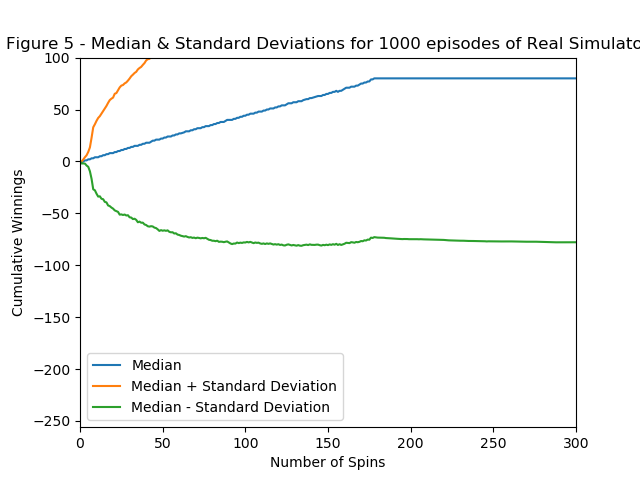
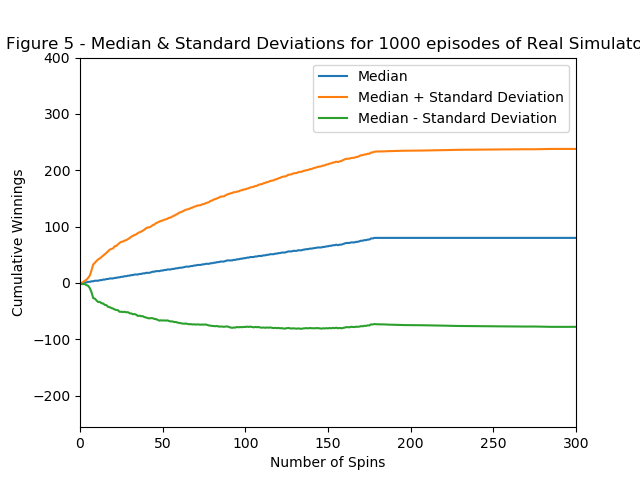
Commenting Print statements in Martingale Cleaned Version of Optimize Something code

diff --git a/optimize_something/optimization.py b/optimize_something/optimization.py
@@ -21,9 +21,9 @@ GT honor code violation.
   		  	   		  		 			  		 			     			  	 
 -----do not edit anything above this line---  		  	   		  		 			  		 			     			  	 
   		  	   		  		 			  		 			     			  	 
-Student Name: Tucker Balch (replace with your name)  		  	   		  		 			  		 			     			  	 
-GT User ID: tb34 (replace with your User ID)  		  	   		  		 			  		 			     			  	 
-GT ID: 900897987 (replace with your GT ID)  		  	   		  		 			  		 			     			  	 
+Student Name: Vaishnavi Sanjeev  		  	   		  		 			  		 			     			  	 
+GT User ID: vsanjeev6  		  	   		  		 			  		 			     			  	 
+GT ID: 903797718  		  	   		  		 			  		 			     			  	 
 """  		  	   		  		 			  		 			     			  	 
   		  	   		  		 			  		 			     			  	 
   		  	   		  		 			  		 			     			  	 
@@ -33,15 +33,15 @@ import numpy as np
   		  	   		  		 			  		 			     			  	 
 import matplotlib.pyplot as plt  		  	   		  		 			  		 			     			  	 
 import pandas as pd  		  	   		  		 			  		 			     			  	 
-from util import get_data, plot_data  		  	   		  		 			  		 			     			  	 
-  		  	   		  		 			  		 			     			  	 
+from util import get_data, plot_data
+from scipy.optimize import minimize
   		  	   		  		 			  		 			     			  	 
 # This is the function that will be tested by the autograder  		  	   		  		 			  		 			     			  	 
 # The student must update this code to properly implement the functionality  		  	   		  		 			  		 			     			  	 
 def optimize_portfolio(  		  	   		  		 			  		 			     			  	 
-    sd=dt.datetime(2008, 1, 1),  		  	   		  		 			  		 			     			  	 
-    ed=dt.datetime(2009, 1, 1),  		  	   		  		 			  		 			     			  	 
-    syms=["GOOG", "AAPL", "GLD", "XOM"],  		  	   		  		 			  		 			     			  	 
+    sd=dt.datetime(2008, 1, 1),
+    ed=dt.datetime(2009, 1, 1),
+    syms=["GOOG", "AAPL", "GLD", "XOM"],
     gen_plot=False,  		  	   		  		 			  		 			     			  	 
 ):  		  	   		  		 			  		 			     			  	 
     """  		  	   		  		 			  		 			     			  	 
@@ -68,34 +68,47 @@ def optimize_portfolio(
   		  	   		  		 			  		 			     			  	 
     # Read in adjusted closing prices for given symbols, date range  		  	   		  		 			  		 			     			  	 
     dates = pd.date_range(sd, ed)  		  	   		  		 			  		 			     			  	 
-    prices_all = get_data(syms, dates)  # automatically adds SPY  		  	   		  		 			  		 			     			  	 
-    prices = prices_all[syms]  # only portfolio symbols  		  	   		  		 			  		 			     			  	 
-    prices_SPY = prices_all["SPY"]  # only SPY, for comparison later  		  	   		  		 			  		 			     			  	 
-  		  	   		  		 			  		 			     			  	 
-    # find the allocations for the optimal portfolio  		  	   		  		 			  		 			     			  	 
-    # note that the values here ARE NOT meant to be correct for a test case  		  	   		  		 			  		 			     			  	 
-    allocs = np.asarray(  		  	   		  		 			  		 			     			  	 
-        [0.2, 0.2, 0.3, 0.3]  		  	   		  		 			  		 			     			  	 
-    )  # add code here to find the allocations  		  	   		  		 			  		 			     			  	 
-    cr, adr, sddr, sr = [  		  	   		  		 			  		 			     			  	 
-        0.25,  		  	   		  		 			  		 			     			  	 
-        0.001,  		  	   		  		 			  		 			     			  	 
-        0.0005,  		  	   		  		 			  		 			     			  	 
-        2.1,  		  	   		  		 			  		 			     			  	 
-    ]  # add code here to compute stats  		  	   		  		 			  		 			     			  	 
-  		  	   		  		 			  		 			     			  	 
+    prices_all = get_data(syms, dates)  # automatically adds SPY
+
+    # Handling possible incomplete data by filling forward first and then backward
+    prices_all.fillna(method="ffill",inplace=True)
+    prices_all.fillna(method="bfill", inplace=True)
+
+    prices = prices_all[syms]  # only portfolio symbols
+    prices_SPY = prices_all["SPY"]  # only SPY, for comparison later
+
+    no_of_assets = len(syms)
+    init_guess_alloc_array = np.full(no_of_assets,(1.0/no_of_assets))
+    #print(no_of_assets,init_guess_alloc_array)
+
+    bnds = tuple((0, 1) for _ in range(no_of_assets))
+    cons = ({'type': 'eq', 'fun': lambda inputs: sum(inputs)-1})
+    #Minimize function optimizes just a single scalar. So ensure that the function passed as an arg returns just one value
+    min_result = minimize(calc_SR,init_guess_alloc_array, args=(prices), method='SLSQP', constraints= cons, bounds = bnds)
+    #print("X={}. Y={}".format(min_result.x, min_result.fun))
+
+    optimal_allocation = min_result.x
+    daily_port_val, cr, adr, sddr = portfolio_calculations(optimal_allocation, prices)
+    #Don't need to reverse sign of SR except when calling the minimize() function
+    sr = -calc_SR(optimal_allocation, prices)
+    # print(bnds, cons, optimal_allocation)
+    #print(optimal_allocation, sum(optimal_allocation))
+
     # Get daily portfolio value  		  	   		  		 			  		 			     			  	 
-    port_val = prices_SPY  # add code here to compute daily portfolio values  		  	   		  		 			  		 			     			  	 
-  		  	   		  		 			  		 			     			  	 
+    port_val = daily_port_val  # add code here to compute daily portfolio values
+
     # Compare daily portfolio value with SPY using a normalized plot  		  	   		  		 			  		 			     			  	 
     if gen_plot:  		  	   		  		 			  		 			     			  	 
         # add code to plot here  		  	   		  		 			  		 			     			  	 
-        df_temp = pd.concat(  		  	   		  		 			  		 			     			  	 
-            [port_val, prices_SPY], keys=["Portfolio", "SPY"], axis=1  		  	   		  		 			  		 			     			  	 
-        )  		  	   		  		 			  		 			     			  	 
+        df_temp = pd.concat([port_val, (prices_SPY/prices_SPY[0])], keys=["Portfolio with [IBM, X, GLD, JPM]", "SPY"], axis=1)
+        graph = df_temp.plot(title = "Comparing Optimal Normalized Portfolio Value and SPY", grid = True)
+        graph.set_xlabel("Date from 2008-06-01 to 2009-06-01")
+        graph.set_ylabel("Normalized Price")
+        plt.savefig('./images/Figure1.png')
+        plt.clf()
         pass  		  	   		  		 			  		 			     			  	 
   		  	   		  		 			  		 			     			  	 
-    return allocs, cr, adr, sddr, sr  		  	   		  		 			  		 			     			  	 
+    return optimal_allocation, cr, adr, sddr, sr
   		  	   		  		 			  		 			     			  	 
   		  	   		  		 			  		 			     			  	 
 def test_code():  		  	   		  		 			  		 			     			  	 
@@ -103,25 +116,52 @@ def test_code():
     This function WILL NOT be called by the auto grader.  		  	   		  		 			  		 			     			  	 
     """  		  	   		  		 			  		 			     			  	 
   		  	   		  		 			  		 			     			  	 
-    start_date = dt.datetime(2009, 1, 1)  		  	   		  		 			  		 			     			  	 
-    end_date = dt.datetime(2010, 1, 1)  		  	   		  		 			  		 			     			  	 
-    symbols = ["GOOG", "AAPL", "GLD", "XOM", "IBM"]  		  	   		  		 			  		 			     			  	 
+    start_date = dt.datetime(2008, 6, 1)
+    end_date = dt.datetime(2009, 6, 1)
+    symbols = ["IBM", "X", "GLD", "JPM"]
   		  	   		  		 			  		 			     			  	 
     # Assess the portfolio  		  	   		  		 			  		 			     			  	 
     allocations, cr, adr, sddr, sr = optimize_portfolio(  		  	   		  		 			  		 			     			  	 
-        sd=start_date, ed=end_date, syms=symbols, gen_plot=False  		  	   		  		 			  		 			     			  	 
+        sd=start_date, ed=end_date, syms=symbols, gen_plot=True
     )  		  	   		  		 			  		 			     			  	 
   		  	   		  		 			  		 			     			  	 
     # Print statistics  		  	   		  		 			  		 			     			  	 
-    print(f"Start Date: {start_date}")  		  	   		  		 			  		 			     			  	 
-    print(f"End Date: {end_date}")  		  	   		  		 			  		 			     			  	 
-    print(f"Symbols: {symbols}")  		  	   		  		 			  		 			     			  	 
-    print(f"Allocations:{allocations}")  		  	   		  		 			  		 			     			  	 
-    print(f"Sharpe Ratio: {sr}")  		  	   		  		 			  		 			     			  	 
-    print(f"Volatility (stdev of daily returns): {sddr}")  		  	   		  		 			  		 			     			  	 
-    print(f"Average Daily Return: {adr}")  		  	   		  		 			  		 			     			  	 
-    print(f"Cumulative Return: {cr}")  		  	   		  		 			  		 			     			  	 
-  		  	   		  		 			  		 			     			  	 
+    #print(f"Start Date: {start_date}")
+    #print(f"End Date: {end_date}")
+    #print(f"Symbols: {symbols}")
+    #print(f"Allocations:{allocations}")
+    print(f"Sharpe Ratio: {sr}")
+    print(f"Volatility (stdev of daily returns): {sddr}")
+    #print(f"Average Daily Return: {adr}")
+    #print(f"Cumulative Return: {cr}")
+
+def portfolio_calculations(allocs, prices):
+
+    normed_prices = prices.divide(prices.iloc[0])
+    alloced_prices = normed_prices * allocs
+
+    #Assuming an initial investment of $1
+    pos_value = 1 * alloced_prices
+    daily_port_val = pos_value.sum(axis=1)
+
+    # Cumulative Return
+    cr = (daily_port_val[-1] / daily_port_val[0]) - 1
+
+    # Average Daily Return
+    daily_returns = (daily_port_val / daily_port_val.shift(1)) - 1
+    daily_returns = daily_returns[1:]
+    adr = daily_returns.mean()
+
+    # StDev of Daily Returns (Sample standard deviation)
+    sddr = daily_returns.std(ddof=1)
+    return daily_port_val, cr, adr, sddr
+
+def calc_SR(allocs, prices):
+    daily_port_val, cr, adr, sddr = portfolio_calculations(allocs, prices)
+    # Sharpe Ratio (daily sampling)
+    sr = np.sqrt(252) * (adr / sddr)
+    #We want to minimize allocations to maximize Sharpe Ratio. But with only minimize function available,
+    return -sr
   		  	   		  		 			  		 			     			  	 
 if __name__ == "__main__":  		  	   		  		 			  		 			     			  	 
     # This code WILL NOT be called by the auto grader  		  	   		  		 			  		 			     			  	 

diff --git a/martingale/martingale.py b/martingale/martingale.py
@@ -70,7 +70,6 @@ def test_code():
     np.random.seed(gtid())  # do this only once  		  	   		  		 			  		 			     			  	 
     #print(get_spin_result(win_prob))  # test the roulette spin
 
-    #print(win_prob)
     figure1(win_prob, 0, bankroll)
     figure3(win_prob, 0, bankroll)
     figure4_and_5(win_prob, 1, bankroll)
@@ -85,8 +84,8 @@ def betting_strategy(win_prob, real_sim, bankroll):
 
     bet_number = 0
 
+
     while episode_winnings < 80:
-        #print("while 1")
         won = False
         bet_amount = 1
         while not won:
@@ -96,29 +95,28 @@ def betting_strategy(win_prob, real_sim, bankroll):
             episode_array[bet_number] = episode_winnings
             bet_number += 1
             won = get_spin_result(win_prob)
-            #print("while 2")
-            #print("spin result", won)
             if won == True:
                 episode_winnings += bet_amount
-                #print("won", episode_winnings)
             else:
                 episode_winnings -= bet_amount
                 bet_amount *= 2
-                #print("lost", episode_winnings)
-                #print("bet_amt=", bet_amount)
                 if real_sim:
                     if episode_winnings == -bankroll:
                         episode_array[bet_number:] = episode_winnings
+                        #print(episode_array)
                         return episode_array
                     if episode_winnings + bankroll < bet_amount:
                         bet_amount = episode_winnings + bankroll
-
+    #print(episode_array)
     return episode_array
 
 def figure1(win_prob, real_sim, bankroll):
     for i in range(10):
         cur_episode = betting_strategy(win_prob,real_sim, bankroll)
         plt.plot(cur_episode, label='Episode %s' % i)
+        #print(cur_episode)
+        #temp = np.mean(cur_episode, axis=0)
+        #print(temp)
 
     plotting_utility_function("Figure 1 - 10 episodes of the betting strategy",
                               [0, 300, -256, 100], "Number of Spins", "Cumulative Winnings", "figure1.png")
@@ -126,15 +124,27 @@ def figure1(win_prob, real_sim, bankroll):
 def figure2(win_prob, real_sim, bankroll):
     # Rows is number of episodes; columns is number of spins per episode (1000) + initial value in 1st column
     cumulative_array = np.zeros((1000,1001))
-
+    loss = 0
+    win = 0
     for i in range(1000):
         cur_episode = betting_strategy(win_prob,real_sim, bankroll)
         cumulative_array[i] = cur_episode
+        if cur_episode[1000] == -256:
+            loss = loss+1
+        else:
+            win = win + 1
 
+    #print(cumulative_array)
+    #print(loss,win)
     mean_array = np.mean(cumulative_array, axis = 0)
+    #print(mean_array[1000])
+
     std_dev_array = np.std(cumulative_array, axis = 0)
+
     mean_plus_std = mean_array + std_dev_array
+    #print(mean_plus_std[1000],mean_plus_std.max(),mean_plus_std.argmax())
     mean_minus_std = mean_array - std_dev_array
+    #print(mean_minus_std[1000])
 
     plt.plot(mean_array, label="Mean")
     plt.plot(mean_plus_std, label="Mean + Standard Deviation")
@@ -163,7 +173,7 @@ def figure3(win_prob, real_sim, bankroll):
                                   [0, 300, -256, 100], "Number of Spins", "Cumulative Winnings", "figure3.png")
     else:
         plotting_utility_function("Figure 5 - Median & Standard Deviations for 1000 episodes of Real Simulator",
-                                  [0, 300, -256, 100], "Number of Spins", "Cumulative Winnings", "figure5.png")
+                                  [0, 300, -256, 400], "Number of Spins", "Cumulative Winnings", "figure5.png")
 def figure4_and_5(win_prob, real_sim, bankroll):
     figure3(win_prob, real_sim, bankroll)
 
